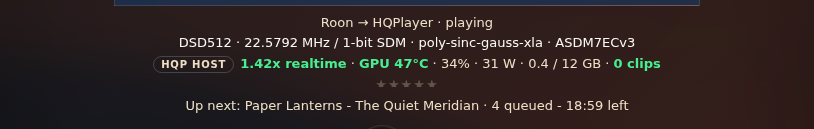
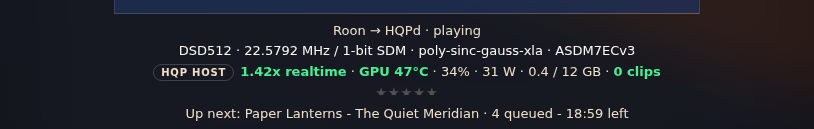
docs: bring the README and every screenshot up to date
The README lists Playback > Library and its Deep Roon MCP requirement,
and its Screenshots section now shows the Library page and the nine
themes. All fifteen screenshots are re-shot against the current UI with
made-up rooms, tracks and addresses: the Roon Zone pills, the HQPweb
link, the Library tab and drop-down, and the nine Mindshovel themes.
Alt texts that no longer matched the pictures are updated.

diff --git a/docs/FEATURES.md b/docs/FEATURES.md
@@ -19,7 +19,7 @@ commits after upstream `f0b1e81`.
 
 ## Playback System row
 
-![Playback System row: Roon and Lyrion pills with a Rouen link, an HQPlayer row with Web Interface and HQPTuner links, and a Roon Zone row with one pill per zone, each with a small play button](screenshots/playback-system-row.png)
+![Playback System row: Roon and Lyrion pills with a Rouen link, an HQPlayer row with Web Interface, HQPTuner and HQPweb links, and a Roon Zone row with one pill per zone, each with a small play button](screenshots/playback-system-row.png)
 
 - **Roon / Lyrion** switches the whole page between the two players. The choice
   is kept in the browser.
@@ -97,7 +97,7 @@ that room's card: art, track, seek bar, back / play-pause / stop / next, and
 volume with mute. It controls that room without switching the page to it.
 
 <p>
-  <img src="screenshots/player-card-desktop.png" alt="Player card on a desktop: a centred card over the blurred page with album art, the room, track, seek bar, transport buttons and close button" width="560">
+  <img src="screenshots/player-card-desktop.png" alt="Player card on a desktop: a centred card over the blurred page with album art, the room, track, seek bar, transport buttons, a volume row with mute and a close button" width="560">
   <img src="screenshots/player-card-phone.png" alt="Player card on a phone: full screen with album art, the room, track, seek bar, transport buttons and a volume row with mute" width="220">
 </p>
 
@@ -147,22 +147,20 @@ The columns stack: details and System first, then the art and everything under
 it.
 
 <p>
-  <img src="screenshots/phone-roon.png" alt="Roon Now Playing on a phone: Maximize Player, Full Window and Artwork buttons, then track details, volume and System, then the album art" width="260">
-  <img src="screenshots/phone-lyrion.png" alt="Lyrion Now Playing on a phone: a Fullscreen button, track and file details, volume and System, then the album art" width="260">
+  <img src="screenshots/phone-roon.png" alt="Roon Now Playing on a phone: Maximize Player and Full Window buttons, then track details, volume and System, then the album art" width="260">
+  <img src="screenshots/phone-lyrion.png" alt="Lyrion Now Playing on a phone: player pills, the Lyrion tabs, a Fullscreen button, then track and file details, volume and System" width="260">
 </p>
 
 ## Themes
 
-Seven themes, picked in **Settings**. `UI_THEME` sets the default for new
+Nine themes, picked in **Settings**. `UI_THEME` sets the default for new
 browsers.
 
-![The same Roon Now Playing page in seven themes: Obsidian & Copper, Original, Roon Dark, Roon Light, Dark Orange, Graphite & Brass and Miyara](screenshots/themes.png)
+![The Library page in the nine themes: Mindshovel Colorful, Mindshovel Colorful Light, Mindshovel Dark, Mindshovel Light, Mindshovel Blue, Mindshovel Dark Orange, Obsidian & Copper, Graphite & Brass and Miyara](screenshots/themes.png)
 
-The picker lists nine themes, named and ordered as in UCWEB: Mindshovel Colorful,
+The picker lists them named and ordered as in UCWEB: Mindshovel Colorful,
 Mindshovel Colorful Light, Mindshovel Dark, Mindshovel Light, Mindshovel Blue,
-Mindshovel Dark Orange, Obsidian & Copper, Graphite & Brass and Miyara. The
-screenshot was taken before Original, Roon Dark, Roon Light and Dark Orange took
-their Mindshovel names and before Colorful Light and Blue were added.
+Mindshovel Dark Orange, Obsidian & Copper, Graphite & Brass and Miyara.
 
 Each theme is a JSON file in `src/themes/`;
 [Colour themes](../README.md#colour-themes) in the README explains how to add one.

diff --git a/README.md b/README.md
@@ -23,9 +23,17 @@ Lyrion Now Playing, with the same layout:
 The player card, opened from the ▸ on a room's pill or by tapping the album art, on a desktop and on a phone:
 
 <p>
-  <img src="docs/screenshots/player-card-desktop.png" alt="Player card on a desktop: a centred card over the blurred page with album art, the room, track, seek bar, transport buttons and close button" width="560">
+  <img src="docs/screenshots/player-card-desktop.png" alt="Player card on a desktop: a centred card over the blurred page with album art, the room, track, seek bar, transport buttons, a volume row with mute and a close button" width="560">
   <img src="docs/screenshots/player-card-phone.png" alt="Player card on a phone: full screen with album art, the room, track, seek bar, transport buttons and a volume row with mute" width="220">
 </p>
+
+Playback > Library, your Roon albums filtered with Roon's Focus (here the Hi-Res library):
+
+![Playback > Library: a search box, Library, Genre, Decade, Stars and Sort drop-downs, filter toggles, and album cards with Play, Play Next, Queue and Start Radio buttons](docs/screenshots/roon-library.png)
+
+The nine colour themes, on the Library page:
+
+![The Library page in the nine themes: Mindshovel Colorful, Mindshovel Colorful Light, Mindshovel Dark, Mindshovel Light, Mindshovel Blue, Mindshovel Dark Orange, Obsidian & Copper, Graphite & Brass and Miyara](docs/screenshots/themes.png)
 
 The screenshots use made-up tracks, rooms and addresses. For a section-by-section
 walk through the changes, with more screenshots, see the [feature tour](docs/FEATURES.md).
@@ -50,6 +58,13 @@ offered upstream as pull requests.
   and clips, coloured by limits (`HQP_HOST_MONITORS`).
 - **Playback System row:** Roon zones as pills, plus optional links to the
   HQPlayer web interface, HQPTuner, HQPweb and Rouen.
+- **Roon Library:** Playback > Library browses the albums in your Roon library
+  with Roon's own Focus filters: library (each storage location, such as your
+  music folders and the TIDAL library), genre, decade, stars, sort, favorites,
+  unplayed, recently added and unidentified. Play, Play Next, Queue and Start
+  Radio go to the selected zone. Needs a
+  [Deep Roon MCP](https://github.com/renebouwmeester/deep-roon-mcp) server
+  (`DEEP_ROON_URL`); Rabbit Hole only uses its read tools.
 - **Player card:** a ▸ on every Roon zone and Lyrion player pill (or a tap on
   the album art) opens that room's card: art, track, seek, back / play-pause /
   stop / next, and volume with mute, without switching the page to that room.
@@ -139,6 +154,11 @@ not have; an access-tier error cannot be fixed by changing the search URL.
 - Roon Server on your LAN for the Roon path, and/or LMS with a connected player
   for the Lyrion path.
 - An LLM server or configured cloud provider for model-assisted discovery.
+- Optional: a [Deep Roon MCP](https://github.com/renebouwmeester/deep-roon-mcp)
+  server for Playback > Library (`DEEP_ROON_URL`). Naming each storage location
+  in the Library list needs its storage-location change
+  ([deep-roon-mcp#6](https://github.com/renebouwmeester/deep-roon-mcp/pull/6));
+  without it the list shows only Local and TIDAL.
 - FFmpeg for optional SiriusXM on-demand/artist/Xtra audio and sonic analysis.
   The supplied Docker image includes FFmpeg and FFprobe.
 
